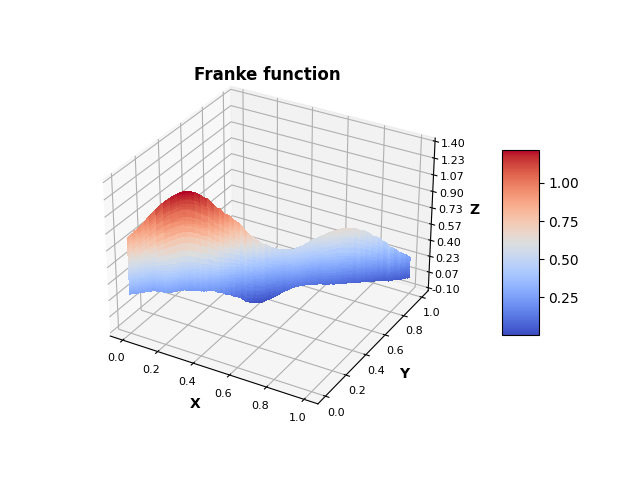
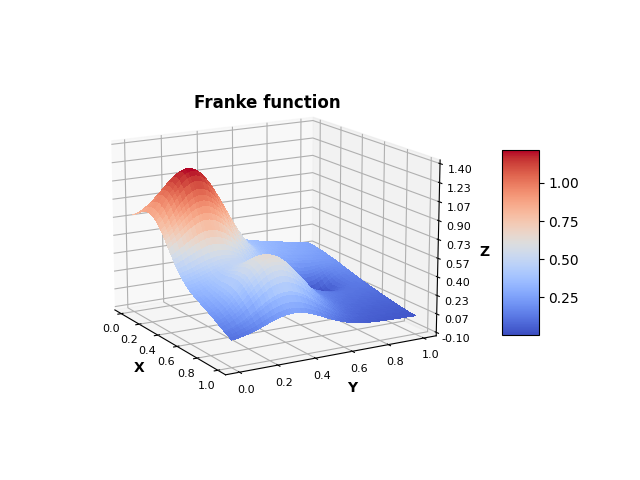
Better comments and structure, added methods.py with regression and resampling (unfinished)

Changed region(s): [[0.1562, 0.125, 0.7812, 0.875]]

diff --git a/code/analysis.py b/code/analysis.py
@@ -1,44 +1,32 @@
 import numpy as np
-from sklearn import linear_model, metrics
+from sklearn import linear_model, metrics, model_selection
 
 class analysis:
-    def __init__(self, **kwargs):
-        self.__dict__ = kwargs
+    def __init__(self, z, z_pred, X = None):
 
-        if self.design == "Yes" or self.design == "yes":
-            self.design_matrix()
-
-    def design_matrix(self):
-        if len(self.x.shape) > 1:
-            self.x = np.ravel(self.x)
-            self.y = np.ravel(self.y)
-
-        self.N = len(self.x)
-        self.P = int((self.degree+1)*(self.degree+2)/2)  # Number of elements in beta
-        X = np.ones((self.N,self.P))
-
-        for i in range(1,self.degree+1):
-            q = int((i)*(i+1)/2)
-            for j in range(i+1):
-                X[:,q+j] = (self.x**(i-j))*(self.y**j)
-
-        self.X = X      
+        self.z = z # Original function output
+        self.z_pred = z_pred  # Regression output, z_pred = X @ beta
+        self.X = X # the 2D design matrix
+        self.run_tests = False # Boole, if True, runs tests on methods    
 
     def MSE(self):
         """
         Calculates the Mean Squared error score.
 
-        Inputs:
+        Explicit inputs:
         None
+
+        Implicit inputs:
+        z, z_pred (from regression
 
         Outputs:
         self.MSE - MSE score 
         """
 
-        self.regression(self.method)
-        n = np.size(self.y_pred)
-        self.MSE = 1/n * np.sum((self.y-self.y_pred)**2)
-        return self.MSE
+
+        n = np.size(self.z_pred) # number of elements
+        self.MSE_score = 1/n * np.sum((self.z-self.z_pred)**2) # definition of MSE
+        return self.MSE_score
 
     def R2(self):
         """
@@ -47,63 +35,47 @@ class analysis:
         Inputs:
         None
 
+        Implicit inputs:
+        z, z_pred (from regression)
+
         Outputs:
         self.R2 - R^2 score 
         """
-        self.regression(self.method)
-        self.R2 = 1 - np.sum((self.y-self.y_pred)**2)/np.sum((self.y-np.mean(self.y))**2)
-        return self.R2
+        self.R2_score = 1 - np.sum((self.z-self.z_pred)**2)/np.sum((self.z-np.mean(self.z))**2)
+        return self.R2_score
 
     def conf_interval(self):
-        self.regression(self.method)
-        cov = np.var(self.y_pred)*np.linalg.pinv(self.X.T @ self.X)
+        """
+        Calculates the confidence interval
+
+        Inputs:
+        None
+
+        Implicit inputs:
+        z_pred, X
+
+        Outputs:
+        std - the variation in the beta parameter
+        """
+      
+        cov = np.var(self.z_pred)*np.linalg.pinv(self.X.T @ self.X)
         std = np.sqrt(np.diag(cov))
         return std
-        
-
-    def regression(self,regression_method):
-        if self.method == "OLS" or self.method == "ols":
-            self.y_pred = self.X @ (np.linalg.pinv(self.X.T @ self.X) @ self.X.T @ self.y)
-
-        elif self.method == "Ridge" or self.method == "ridge":
-            if self.lmd == 0:
-                raise Exception("Lambda must be greater than zero")
-            self.y_pred = self.X @ (np.linalg.pinv(self.X.T @ self.X + self.lmd*np.identity(self.P)) @ self.X.T @ self.y)
-       
-        elif self.method == "Lasso" or self.method == "lasso":
-            # manual lasso regression is optional, can implement if needed, see lectures week 36
-            if self.lmd == 0:
-                raise Exception("Lambda must be greater than zero")
-            lasso_reg = linear_model.Lasso(fit_intercept=True, max_iter=100000, alpha=self.lmd)
-            lasso_reg.fit(self.X,self.y)
-            self.beta = lasso_reg.coef_
-            self.beta[0] = lasso_reg.intercept_
-            self.y_pred = self.X @ self.beta
-
-        else:
-            raise Exception("Available keywords are 'OLS, ols, Ridge, ridge, Lasso and lasso'")
-
-    
-    def resampling(self,resampling_method):
-        if self.resampling_method == "Bootstrap" or self.resampling_method == "bootstrap":
-            t = np.zeros(len(self.P))
-            n = len(self.x)
-
-            for i in range(len(self.P)):
-                t[i] = np.mean(self.x[np.random.randint(0,n,n)])
-            
-            self.t = t
-
-        if self.resampling_method == "Cross-validation" or self.resampling_method == "cross-validation":
-            print("nothing")
 
 
-    def tests(self,run_tests):
+    def tests(self,run_tests= True,error = 1e-12):
     # not finished, but easy to expand upon
         if self.run_tests == True:
             self.MSE()
-            skl_MSE = metrics.mean_squared_error(self.y, self.y_pred)
+            skl_MSE = metrics.mean_squared_error(self.z, self.z_pred)
             self.R2()
-            skl_R2 = metrics.r2_score(self.y, self.y_pred)
+            skl_R2 = metrics.r2_score(self.z, self.z_pred)
+            #lin_reg = linear_model.LinearRegression()
+            #lin_reg.fit(self.z,self.z_pred)
 
+            #R2 = model_selection.cross_val_score(lin_reg,self.z,self.z_pred)
+            #print(np.mean(R2))
+            print((self.MSE()-skl_MSE < error))
+            print((self.R2()-skl_R2) < error)
+            
             

diff --git a/code/methods.py b/code/methods.py
@@ -1,0 +1,92 @@
+import numpy as np
+
+
+""" creates 2D poly design matrix
+e.g. 2D 'degree' polynomial where DIM = N x P:
+
+P5_column(x**5, x**4 * y, x**3 * y**2, x**2 * y**3, x * y**4, y**5) + lower degree columns
+e.g P2 = [ 1, x, x**2
+           1, y, x*y
+           1, 1, y**2 ]
+
+"""
+def design_matrix(x, y, degree):
+    if len(x.shape) > 1:
+        x = np.ravel(x)
+        y = np.ravel(y)
+
+    N = len(x)
+    P = int((degree+1)*(degree+2)/2)  # Number of elements in beta
+    X = np.ones((N,P))
+
+    for i in range(1,degree+1):
+        q = int((i)*(i+1)/2)
+        for j in range(i+1):
+            X[:,q+j] = (x**(i-j))*(y**j)
+
+    return X
+
+class regression:
+	def __init__(self, X, z, reg_method = None, lmd = None):
+		self.X = X # the design matrix
+		self.z = z # the function values that will be done regression on
+		self.reg_method = reg_method # String that specifices regression method
+		self.lmd = lmd # Lambda variable used in Ridge regression, here "k": https://en.wikipedia.org/wiki/Ridge_regression
+		self.z_pred = None # the regression predicted new values for z
+
+		reg_set = {'ols','ridge','lasso'}
+
+		if self.reg_method not in reg_set:
+			raise Exception(f"Please set 'reg_method' to a valid keyword. Valid input keywords are {reg_set}")
+
+
+	def ols(self):
+		"""
+		Does ordinary least squares linear regression with matrices
+		"""
+		self.z_pred = self.X @ (np.linalg.pinv(self.X.T @ self.X) @ self.X.T @ self.z)
+		return self.z_pred
+
+	def ridge(self):
+		if self.lmd == 0:
+			raise Exception("Lambda must be greater than zero. Otherwise use OLS")
+		self.z_pred = self.X @ (np.linalg.pinv(self.X.T @ self.X + self.lmd*np.identity(self.P)) @ self.X.T @ self.z)
+		return self.z_pred
+	   
+	def lasso(self):
+		# manual lasso regression is optional, can implement if needed, see lectures week 36
+		if self.lmd == 0:
+			raise Exception("Lambda must be greater than zero")
+		lasso_reg = linear_model.Lasso(fit_intercept=True, max_iter=100000, alpha=self.lmd)
+		lasso_reg.fit(self.X,self.z)
+		self.beta = lasso_reg.coef_
+		self.beta[0] = lasso_reg.intercept_
+		self.z_pred = self.X @ self.beta
+		return self.z_pred
+
+	
+class resampling:
+	def __init__(self, X, z, resampling_method = None):
+		self.X = X # design matrix
+		self.z = z # function values
+		self.resampling_method = resampling_method # String that specifices resampling method
+
+		resampling_set = {'bootstrap', 'cross-validation'}
+
+		if self.resampling_method not in resampling_set:
+			raise Exception(f"Please set 'resampling_method' to a valid keyword. Valid input keywords are {resampling_set}")
+
+
+	def bootstrap(self):
+		P = int(len(X[0,:]))
+		t = np.zeros(P)
+		n = len(self.z)
+
+		for i in range(P):
+			t[i] = np.mean(self.z[np.random.randint(0,n,n)])
+		
+		self.t = t
+
+	def cross_validation(self):
+
+		print("nothing")

diff --git a/code/main.py b/code/main.py
@@ -6,7 +6,7 @@ def main():
     import numpy as np
     import pandas as pd
     import sklearn as skl
-    import franke, analysis, resampling, plot
+    import franke, analysis, methods, plot
 
     seed = 8
     np.random.seed(seed) # set seed for reproduceability
@@ -19,13 +19,14 @@ def main():
     #y = np.arange(0, 1, 0.05)
     x = np.sort(np.random.uniform(0, 1, int(N))) # random uniform distribution with
     y = np.sort(np.random.uniform(0, 1, int(N))) # with x, y E [0, 1]
+
     xx, yy = np.meshgrid(x,y)
     z = franke.function(xx, yy)
     nz = franke.noisy_function(xx, yy)
 
     # Plot default
-    plot.pretty_plot(x, y, z, "Franke function")
-    plot.pretty_plot(x, y, nz, "Noisy Franke function")
+    plot.pretty_plot(xx, yy, z, "Franke function")
+    plot.pretty_plot(xx, yy, nz, "Noisy Franke function")
 
     # Split data into test and train
     xy_combined = np.vstack((x, y)).T
@@ -35,10 +36,17 @@ def main():
     scaler = skl.preprocessing.StandardScaler().fit(xy_train)
     # call with scaled_train = scaler.transform(xy_train)
 
-    analysis = analysis.analysis(x=xx,y=yy,lmd=0,degree=5,method='ols',design="yes")
-    #MSE = analysis.MSE()
-    #R2 = analysis.R2()
-    #conf_interval = analysis.conf_interval()
+
+    # Resampling
+    # methods.resampling( input values )  
+
+    # regression example
+    X = methods.design_matrix(x,y,degree=5)
+    reg = methods.regression(X,z,"ols")
+    z_pred = reg.ols()
+    
+    analysis = analysis.analysis(z,z_pred)
+    MSE = analysis.MSE()
 
     #Exercise 2 - Bias-variance trade-off and resampling (bootstrap)
     #s

diff --git a/code/plot.py b/code/plot.py
@@ -18,7 +18,7 @@ def pretty_plot(x, y, z, title):
 
 	Saves produced figure to ../figures/title.png.
 	"""
-	
+		
 	fig, ax = plt.subplots(subplot_kw={"projection": "3d"})
 
 	# Plot the surface.
@@ -39,6 +39,6 @@ def pretty_plot(x, y, z, title):
 
 	# Add a color bar which maps values to colors.
 	fig.colorbar(surf, shrink=0.5, aspect=5, pad=0.1)
-
+	
 	# Save output
 	plt.savefig("../figures/" + str(title) + ".png")
